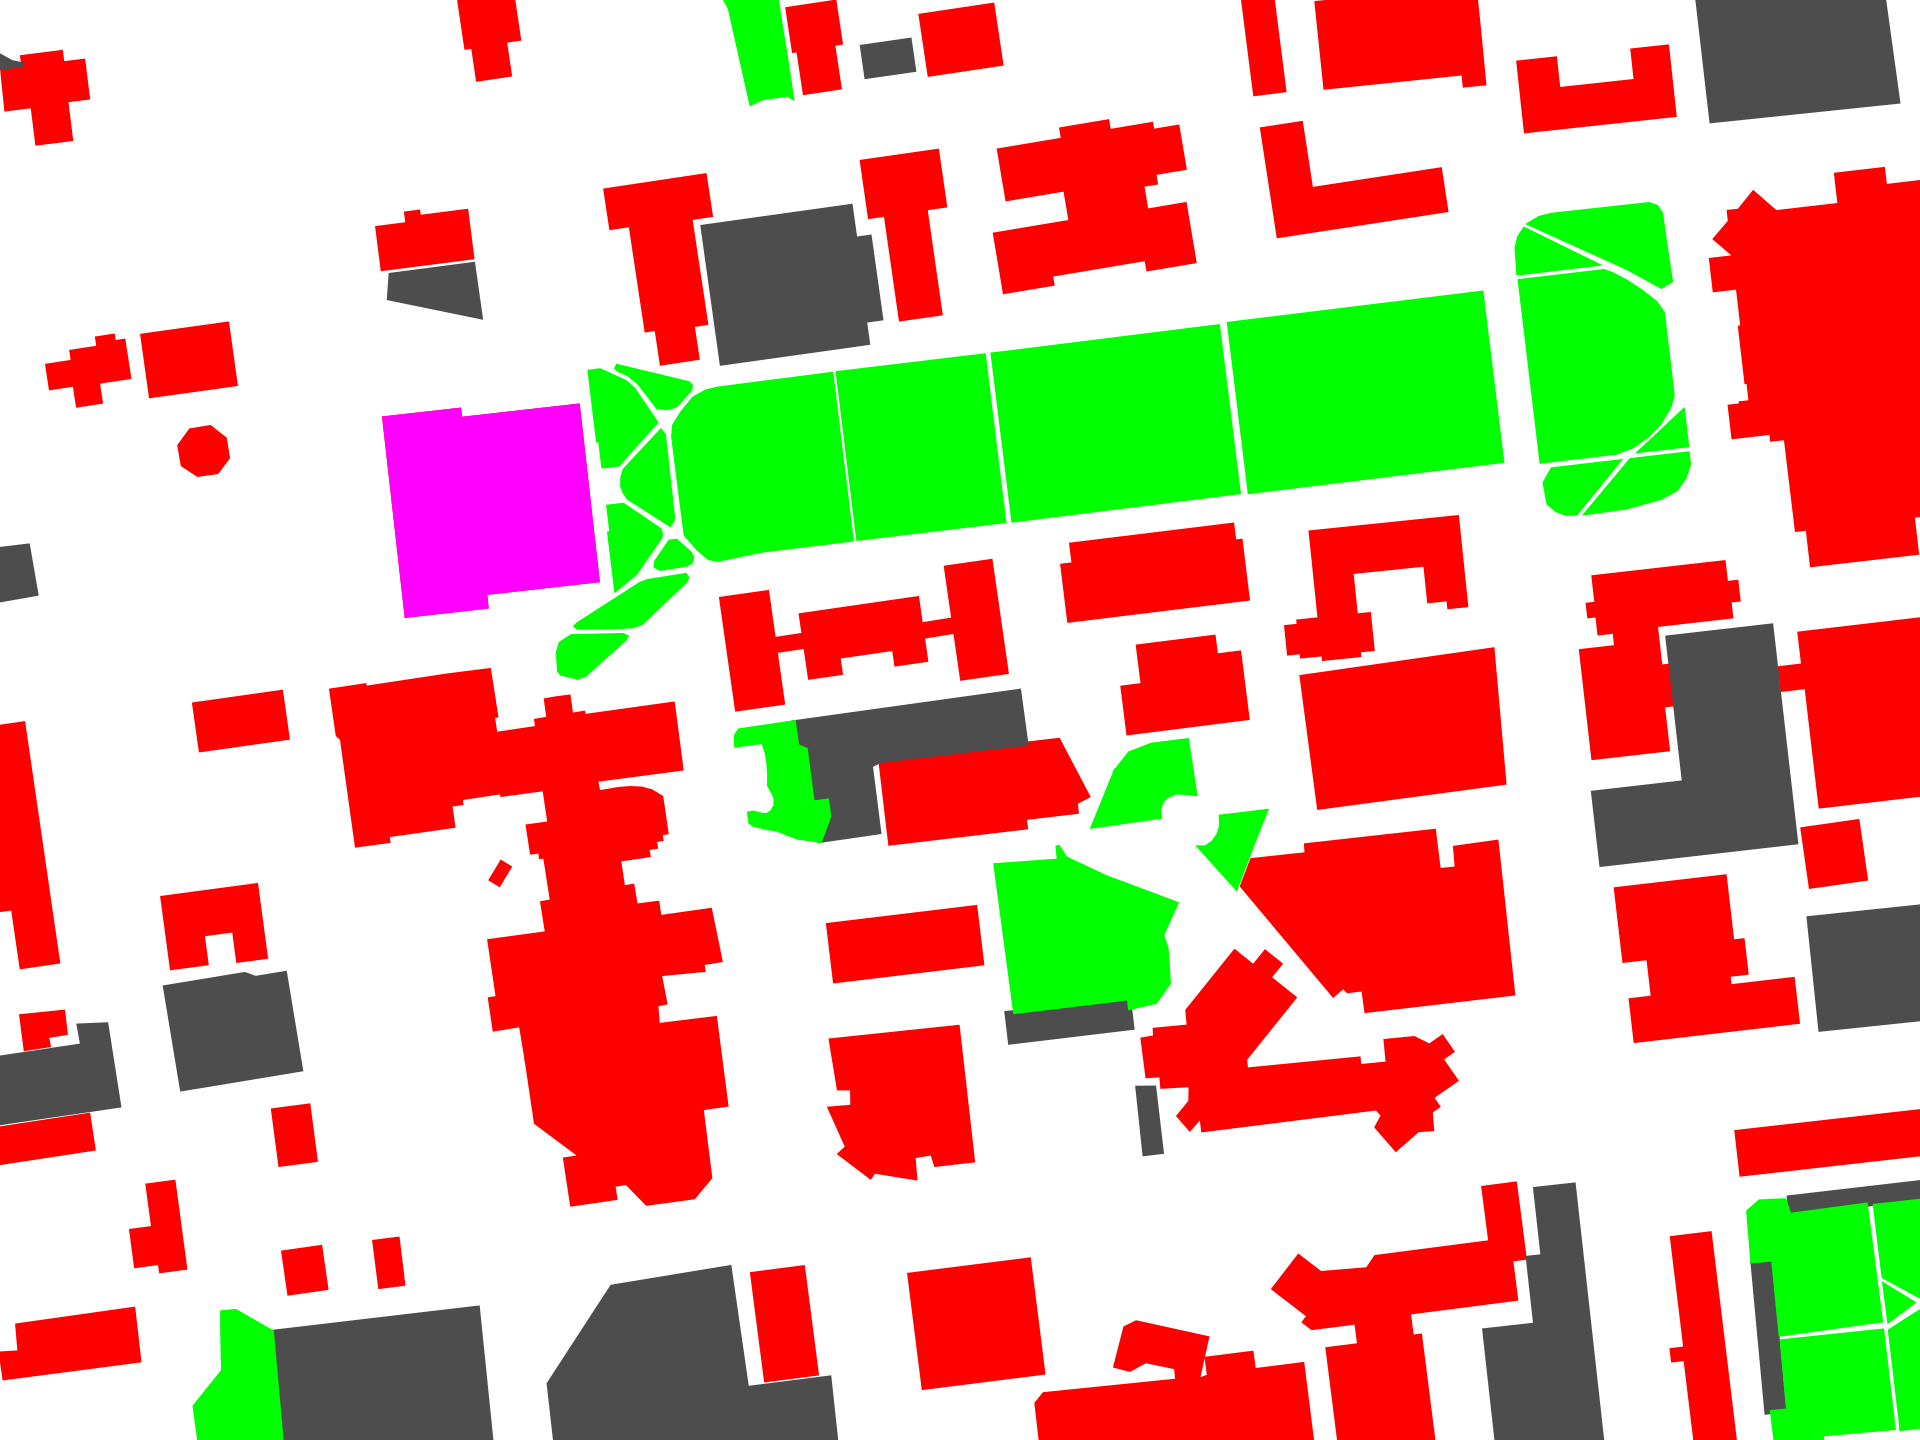
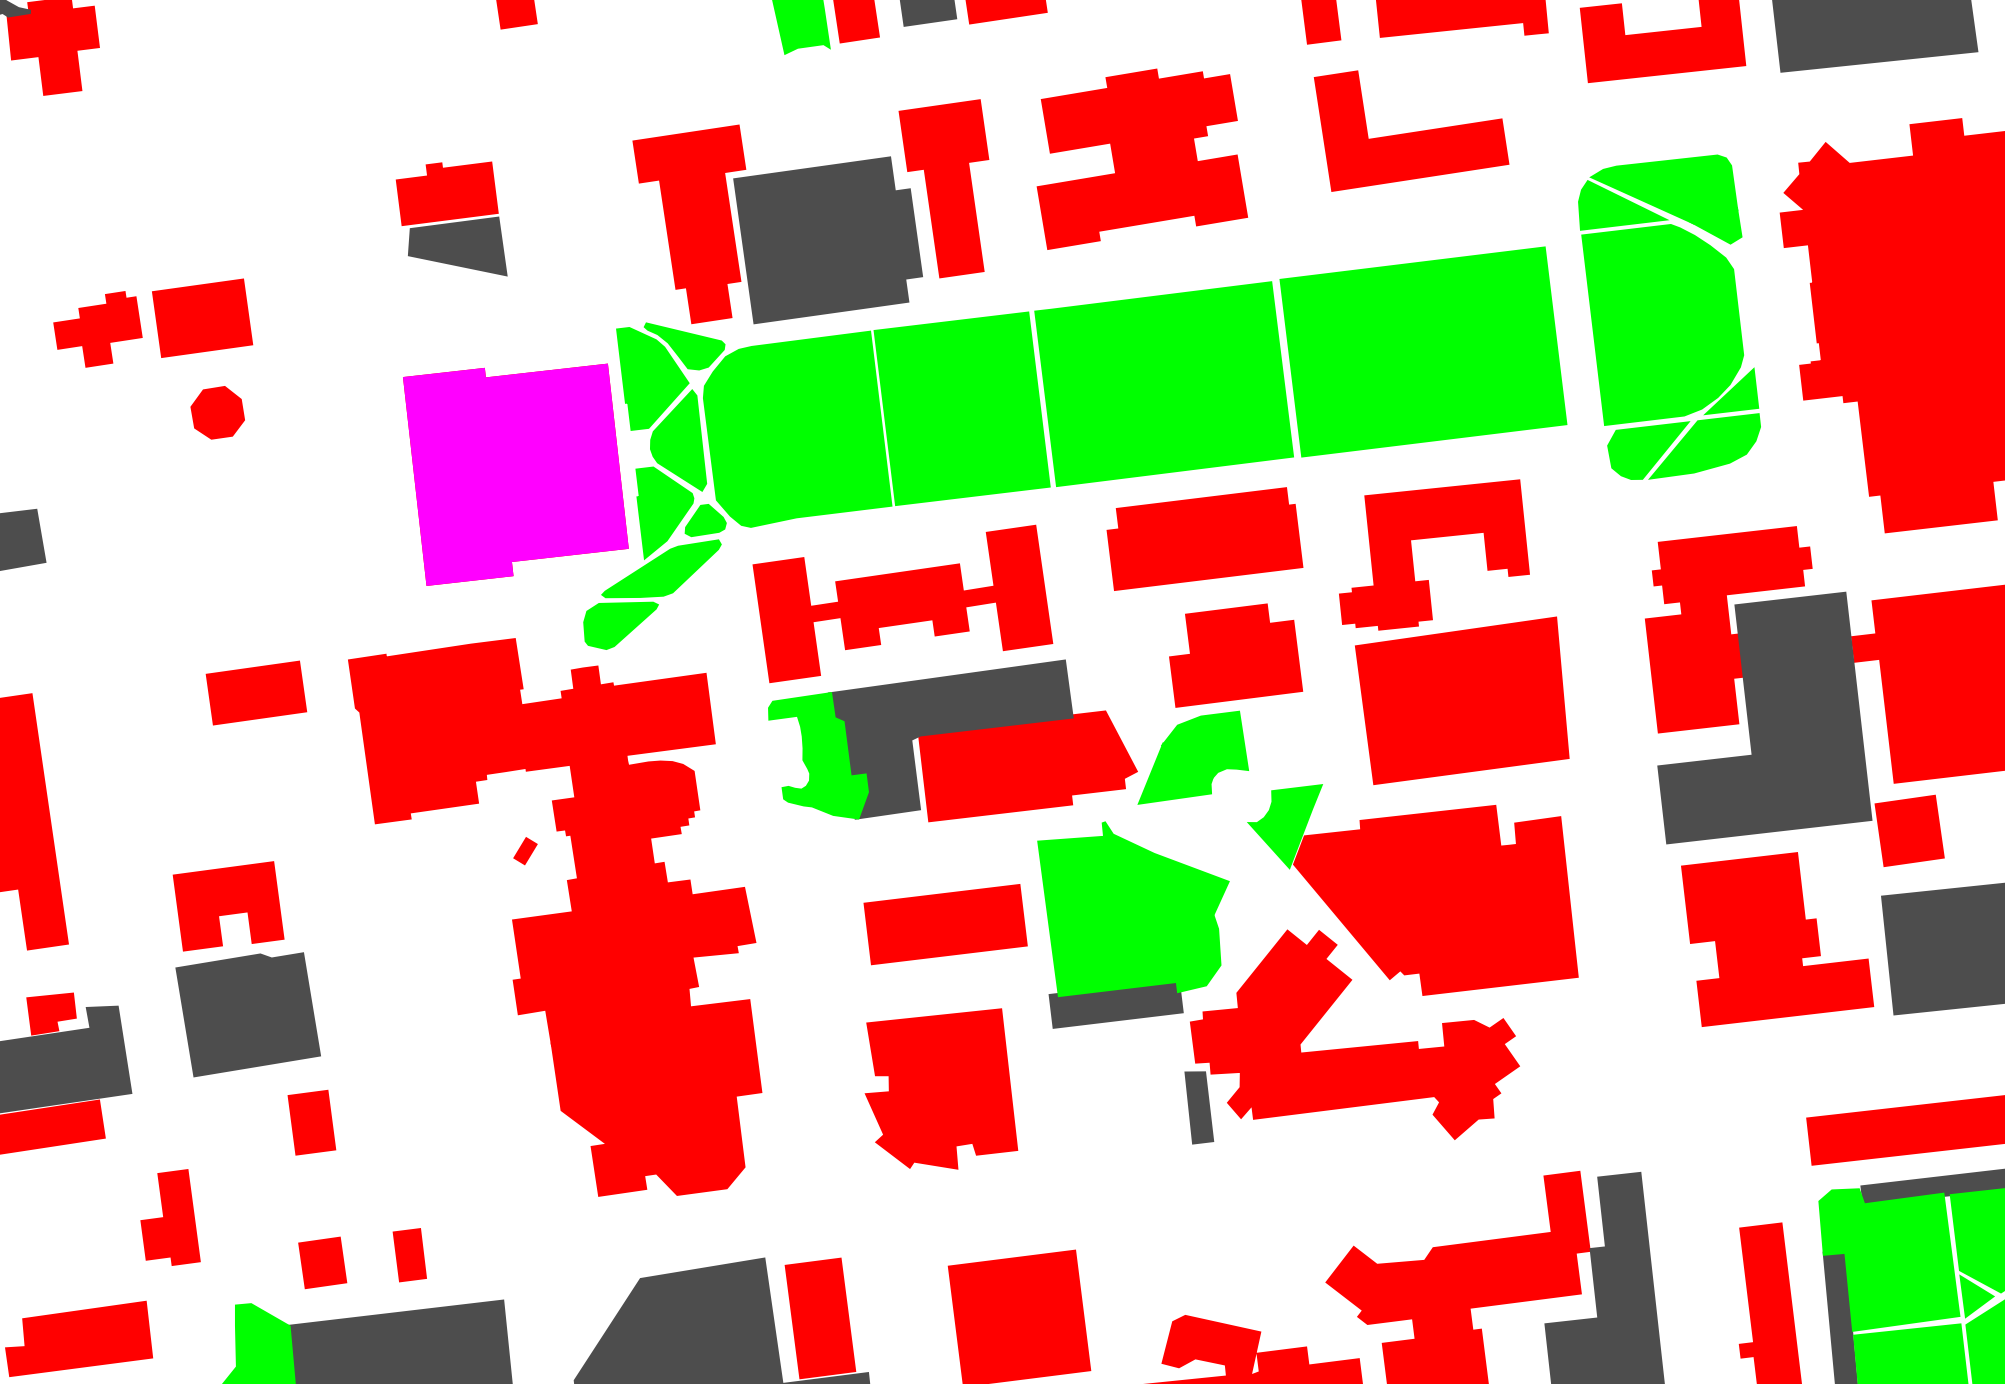
scale figsize by bounding box

diff --git a/source/getMapImage.py b/source/getMapImage.py
@@ -42,6 +42,8 @@ RGBACOLORS = dict(
 class MPLBMap():
     def __init__(self, bbox):
         self.fig, self.ax = plt.subplots(
+            figsize=((bbox[2]-bbox[0])/100,
+                     (bbox[3]-bbox[1])/100),
             subplot_kw=dict(xmargin=0, ymargin=0),
             linewidth=0, dpi=300)
         self.fig.set_layout_engine('tight', pad=0, w_pad=0, h_pad=0)
